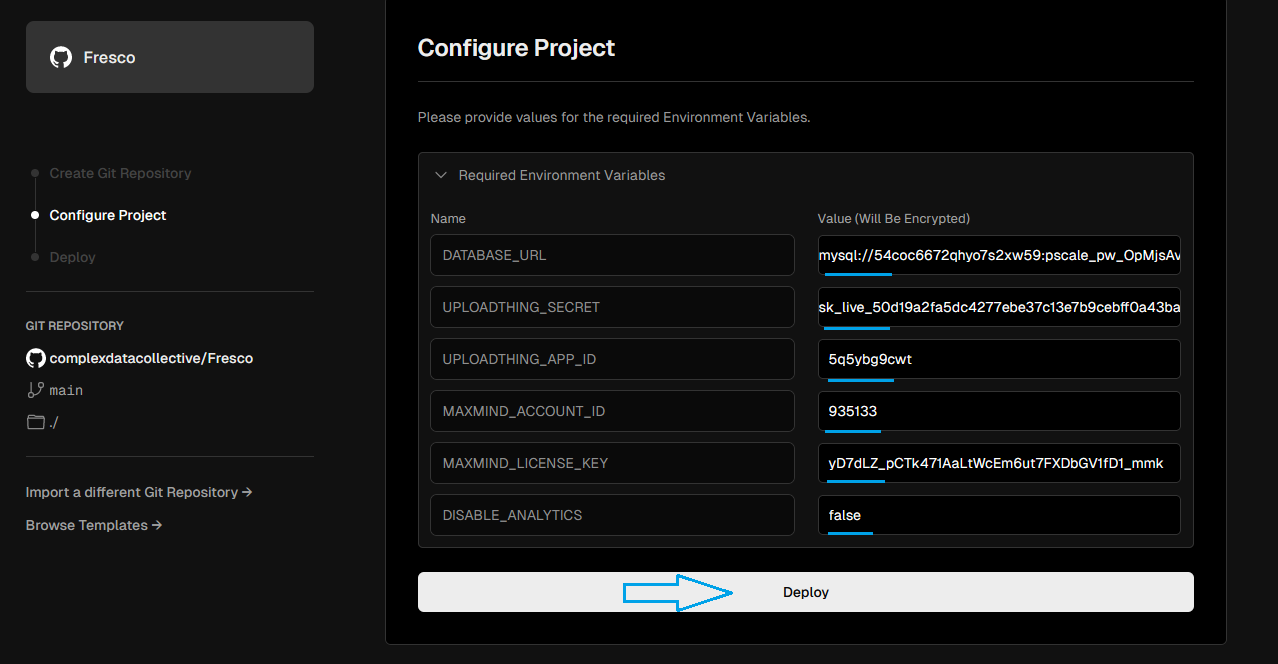
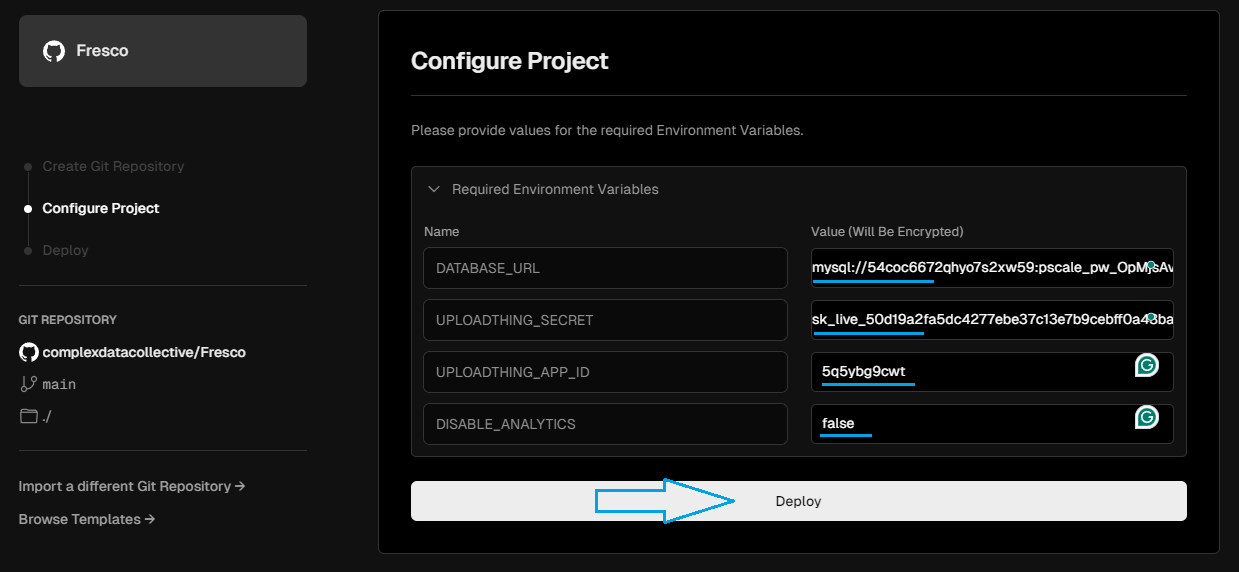
fix env table and update configure screenshot on README

diff --git a/README.md b/README.md
@@ -122,10 +122,10 @@ _Prerequisite:_ You need to have a Vercel account, go to <a href="https://vercel
    Provide the required environment variables from the services you set up in [Step 1](#step-1) and [Step 2](#step-2).
 
    | Variable           | Description                                                                                                                                                                                                                                    |
-   | ------------------ | ---------------------------------------------------------------------------------------------------------------------------------------------------------------------------------------------------------------------------------------------- | --- |
+   | ------------------ | ---------------------------------------------------------------------------------------------------------------------------------------------------------------------------------------------------------------------------------------------- |
    | DATABASE_URL       | The connection string for your database. This is used to enable Fresco communicate with your PlanetScale database. <a href="https://planetscale.com/docs/concepts/connection-strings" target="_blank">More info</a>                            |
    | UPLOADTHING_SECRET | The API key for your UploadThing app. This is used to authenticate requests from Fresco to the UploadThing API. <a href="https://uploadthing.com/dashboard" target="_blank">More info</a>                                                      |
-   | UPLOADTHING_APP_ID | The unique identifier for your UploadThing app. This is used along with the secret key to identify your app when making requests from Fresco to the UploadThing API. <a href="https://uploadthing.com/dashboard" target="_blank">More info</a> |     |
+   | UPLOADTHING_APP_ID | The unique identifier for your UploadThing app. This is used along with the secret key to identify your app when making requests from Fresco to the UploadThing API. <a href="https://uploadthing.com/dashboard" target="_blank">More info</a> |
    | DISABLE_ANALYTICS  | A flag to disable the analytics microservice for Fresco. If this is set to `false`, the analytics microservice will be enabled.                                                                                                                |
 
    **Note: We use Analytics microservice to gather error data from instances of Fresco to troubleshoot issues, so by setting `DISABLE_ANALYTICS` to `false` you would help us identify bugs and improve the app.**
